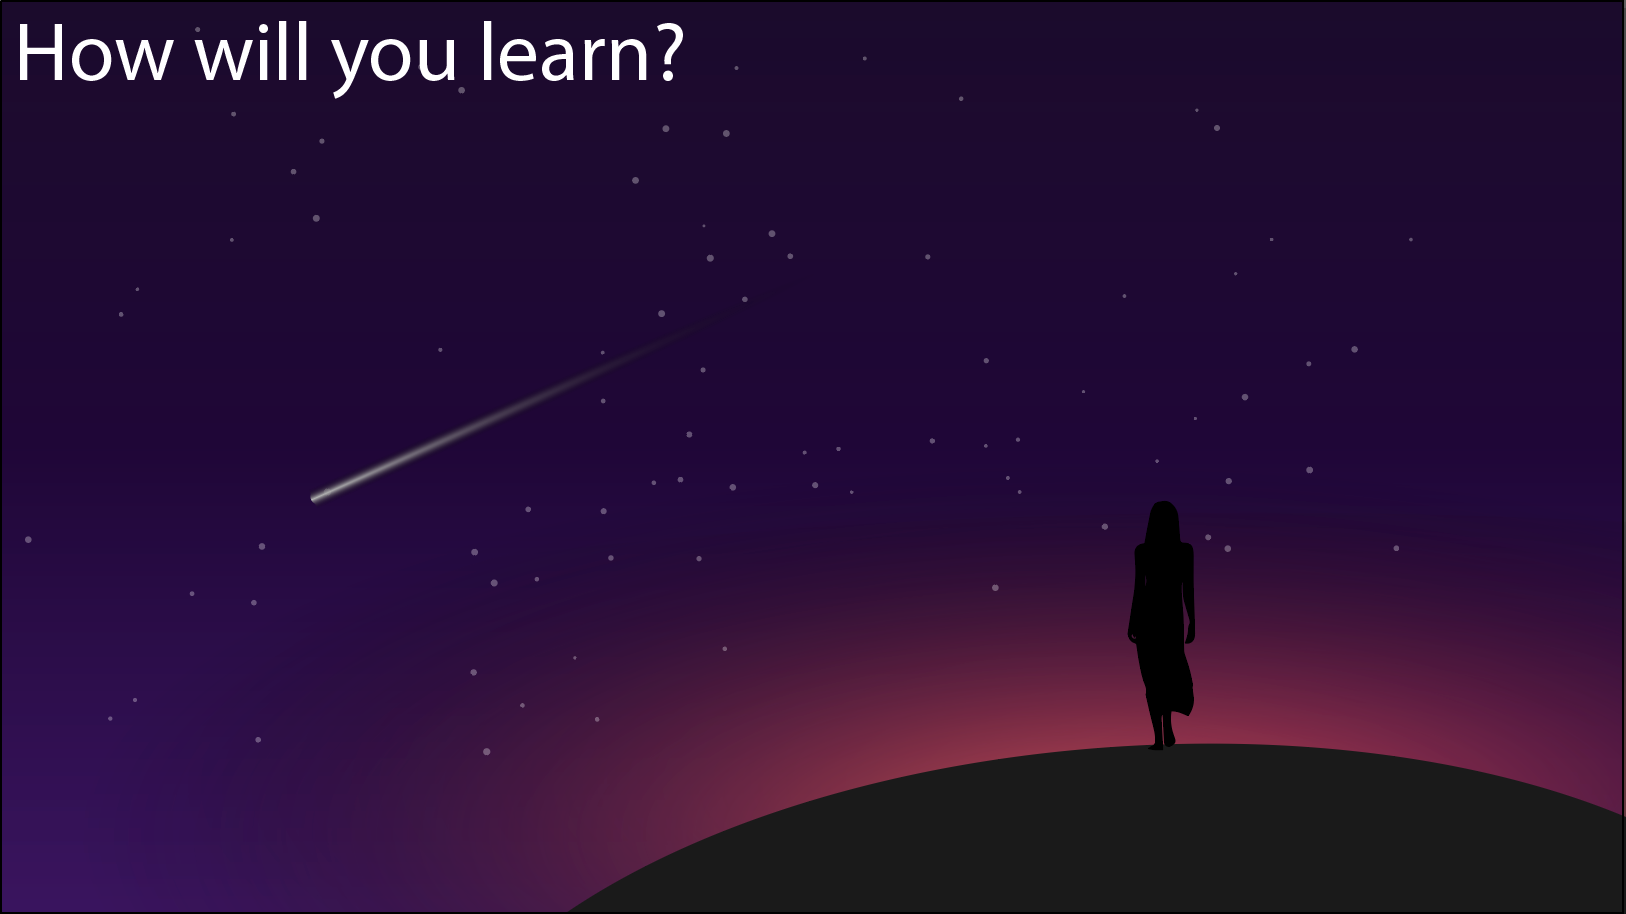
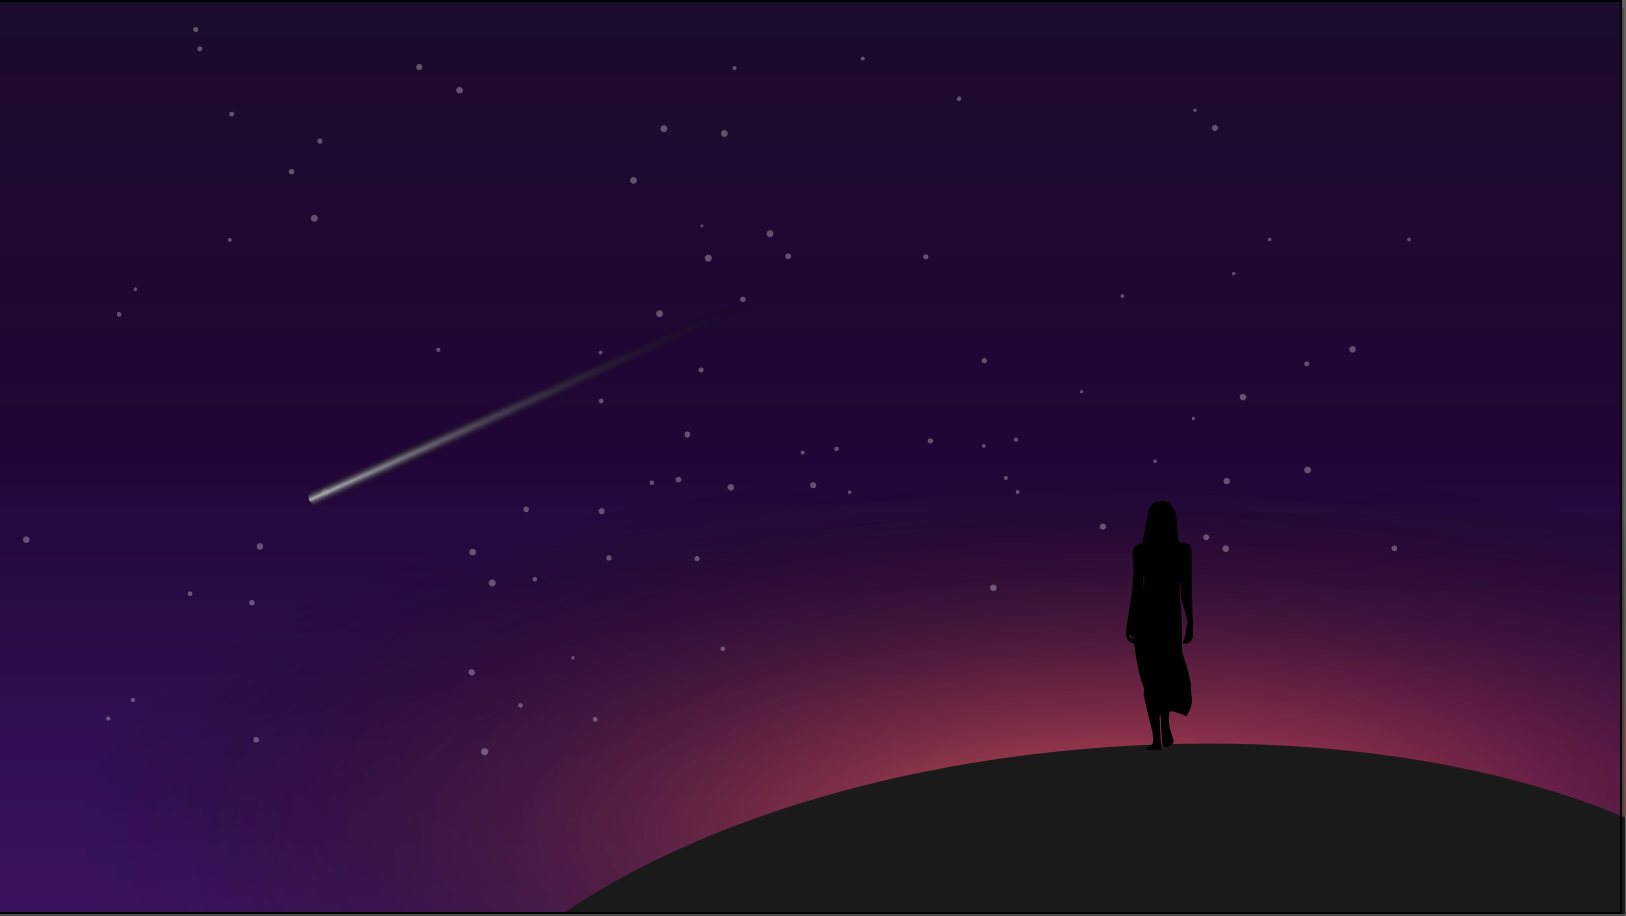
rearanged some things

diff --git a/src/app/components/login/login.component.html b/src/app/components/login/login.component.html
@@ -1,5 +1,4 @@
-<!--d-flex align-items-center-->
-<div class="container-fluid">
+<div class="container-fluid p-0">
   <div class="row topHalf">
     <div class="col-sm-4"></div>
     <div class="col-sm-5">
@@ -8,8 +7,6 @@
       </div>
 
       <div class="row textBoxes">
-        <!--<div class="col-sm-1"></div>
-            <div class="col-sm-11">-->
         <form action="" method="post">
           <div class="row emailRow ml-3">
             <label for="emailAddress">Email:</label>
@@ -19,19 +16,18 @@
             <label for="pWord">Password:</label>
             <input type="password" id="pWord" name="password" [(ngModel)]="password">
           </div>
-          <div class="row submitRow mt-3 ml-3">
-            <div class="col-sm-2"></div>
-            <div class="col-sm-3 ml-2">
-              <button mat-raised-button color="primary" class="white-text ml-4" role="button" (click)="loginUser()">Login</button>
+          <div class="row submitRow mt-3">
+            <div class="col-sm-3"></div>
+            <div class="col-sm-3 ">
+              <button class="btn btn-deep-purple waves-light white-text ml-4" role="button" (click)="loginUser()">Login</button>
             </div>
-            <div class="col-sm-2"></div>
-            <div class="col-sm-4">
-              <button routerLink="/register" mat-raised-button color="primary" class="white-text ml-4" role="button">Register</button>
+            <div class="col-sm-1"></div>
+            <div class="col-sm-3">
+              <button routerLink="/register" class="btn btn-deep-purple waves-light white-text ml-2" role="button">Register</button>
             </div>
 
           </div>
         </form>
-        <!--</div>-->
       </div>
     </div>
     <div class="col-sm-3"></div>
@@ -40,11 +36,6 @@
   <div class="row secondLayer">
     <img src="assets/img/svg/underOcean.svg">
   </div>
-
-  <div class="row thirdLayer">
-    <img src="assets/img/nightSkyFinal.png">
-  </div>
-
 
   <div class="mycontainer">
     <div class="myslider">
@@ -59,33 +50,4 @@
         </div>
     </div>
   </div>
-
-  <!-- <div class="row bottomHalf">
-    <div class="col-sm-12 mr-0 carouselHolder">
-      <div id="demo" class="carousel slide" data-ride="carousel">
-        <ul class="carousel-indicators">
-          <li data-target="#demo" data-slide-to="0" class="active"></li>
-          <li data-target="#demo" data-slide-to="1"></li>
-          <li data-target="#demo" data-slide-to="2"></li>
-        </ul>
-        <div class="carousel-inner">
-          <div class="carousel-item active">
-            <img src="assets/img/svg/world.svg" alt="People">
-          </div>
-          <div class="carousel-item">
-            <img src="assets/img/svg/Screen.svg" alt="World">
-          </div>
-          <div class="carousel-item">
-            <img src="assets/img/svg/3DImageBackground.svg" alt="3DImage">
-          </div>
-        </div>
-        <a class="carousel-control-prev" href="#demo" data-slide="prev">
-          <span class="carousel-control-prev-icon"></span>
-        </a>
-        <a class="carousel-control-next" href="#demo" data-slide="next">
-          <span class="carousel-control-next-icon"></span>
-        </a>
-      </div>
-    </div>
-  </div> -->
 </div>

diff --git a/src/app/components/login/login.component.ts b/src/app/components/login/login.component.ts
@@ -1,6 +1,8 @@
 import { Component, OnInit } from '@angular/core';
 import { Router } from '@angular/router';
 
+// import { FormGroup, FormBuilder, Validators } from '@angular/forms';
+
 
 /* Services */
 import { AuthService } from '../../services/auth/auth.service';
@@ -13,6 +15,19 @@ import { UserInfo } from '../../models/userInfo';
   templateUrl: './login.component.html',
   styleUrls: ['./login.component.scss']
 })
+
+// export class LoginFormComponent {
+
+//   applogin: FormGroup;
+
+//   constructor(private fb: FormBuilder) {
+//       this.applogin = fb.group({
+//           defaultFormEmail: ['', Validators.required],
+//           defaultFormPass: ['', [Validators.required, Validators.minLength(8)]]
+//       });
+//   }
+// }
+
 export class LoginComponent implements OnInit {
 
   public email: string

diff --git a/src/app/components/login/login.component.scss b/src/app/components/login/login.component.scss
@@ -5,7 +5,7 @@
 .topHalf {
     height: 95vh;
     /*background-color: #00BCD4;*/
-    background-image: url("../../../assets/img/svg/newBackground.svg");
+    background-image: url("../../../assets/img/nightSkyFinal.png");
     background-size: cover;
     border: none;
 }
@@ -18,11 +18,6 @@
     height: 100%;
 }
 
-.thirdLayer img{
-    width: 100%;
-    height: 100%;
-}
-
 .logoBox {
     position: relative;
     height: 50vh;
@@ -31,7 +26,7 @@
 .logoBox img {
     position: absolute;
     left: 0;
-    bottom: 40%;
+    bottom: 50%;
 }
 
 label {
@@ -57,17 +52,6 @@ input:focus,
 textarea:focus {
     border-color: #000
 }
-
-.bottomHalf {
-    height: 60vh;
-}
-
-.carousel-inner img {
-    width: 100%;
-    height: 100%;
-    background-size: cover;
-}
-
 
 
 .mycontainer{
